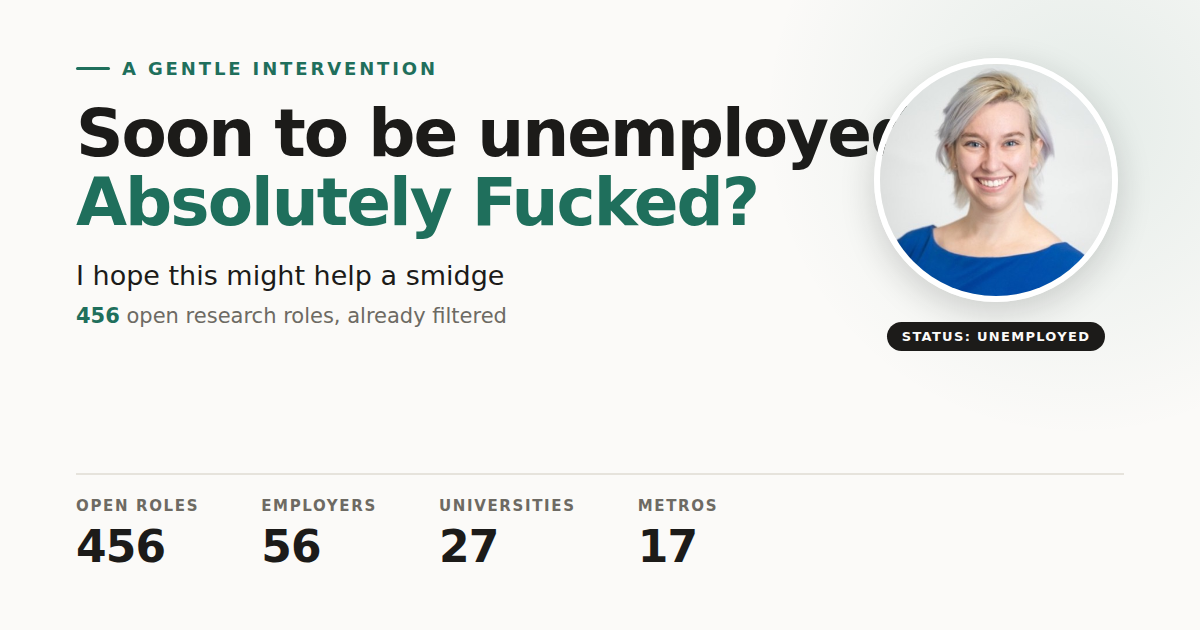
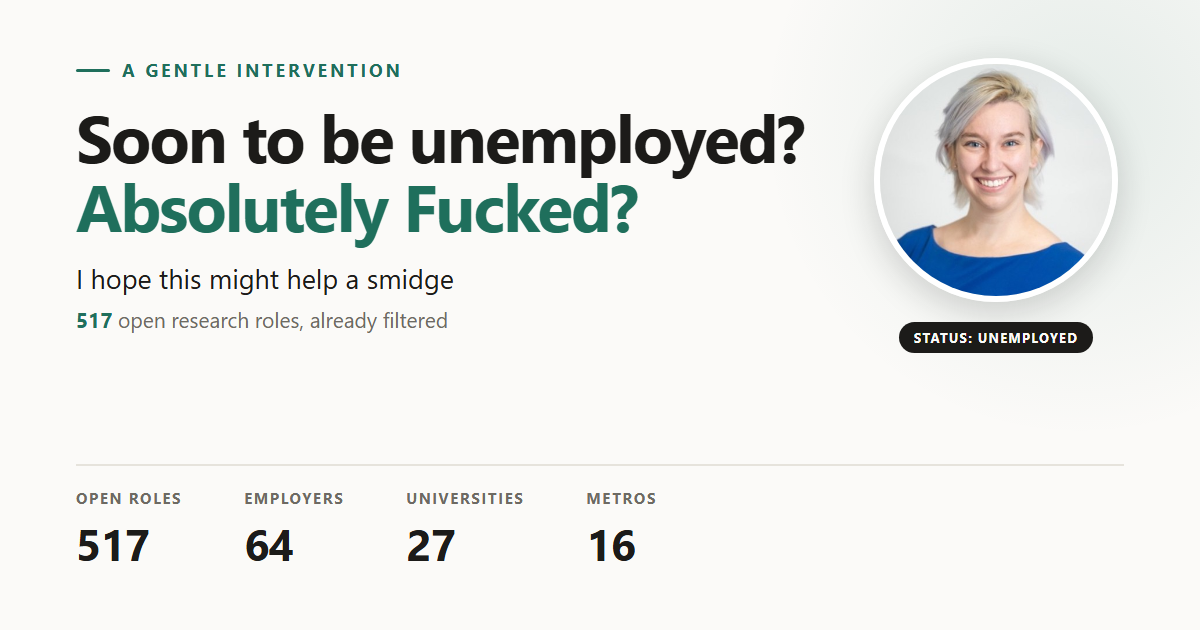
sweep fixes

diff --git a/index.html b/index.html
@@ -24,15 +24,15 @@
   <meta property="og:type" content="website">
   <meta property="og:site_name" content="Research Jobs Board">
   <meta property="og:title" content="Soon to be unemployed? Absolutely Fucked?">
-  <meta property="og:description" content="I hope this might help a smidge. 456 open research roles, already filtered, from 56 employer job feeds across 27 universities and 17 metros.">
+  <meta property="og:description" content="I hope this might help a smidge. 517 open research roles, already filtered, from 64 employer job feeds across 27 universities and 16 metros.">
   <meta property="og:url" content="https://bridget-jobs.vercel.app/">
   <meta property="og:image" content="https://bridget-jobs.vercel.app/og.png">
   <meta property="og:image:width" content="1200">
   <meta property="og:image:height" content="630">
-  <meta property="og:image:alt" content="Soon to be unemployed? Absolutely Fucked? 456 open roles, 56 employers, 27 universities, 17 metros.">
+  <meta property="og:image:alt" content="Soon to be unemployed? Absolutely Fucked? 517 open roles, 64 employers, 27 universities, 16 metros.">
   <meta name="twitter:card" content="summary_large_image">
   <meta name="twitter:title" content="Soon to be unemployed? Absolutely Fucked?">
-  <meta name="twitter:description" content="I hope this might help a smidge. 456 open research roles, already filtered.">
+  <meta name="twitter:description" content="I hope this might help a smidge. 517 open research roles, already filtered.">
   <meta name="twitter:image" content="https://bridget-jobs.vercel.app/og.png">
 
   <style>

diff --git a/tools/sweep.py b/tools/sweep.py
@@ -20,8 +20,11 @@ Stdlib only, no pip install.
 import argparse
 from datetime import datetime, timezone
 import csv
+import html
 import json
+import os
 import re
+import subprocess
 import sys
 import time
 import urllib.error
@@ -107,6 +110,14 @@ def detect(careers_url):
 
     if "ashbyhq.com" in host and parts:
         return {"ats": "ashby", "token": parts[0]}
+
+    if "apply.workable.com" in host and parts:
+        return {"ats": "workable", "token": parts[0]}
+
+    m = re.match(r"(https://[^/]+\.oraclecloud\.com)/hcmUI/CandidateExperience/[^/]+/sites/([^/?#]+)",
+                 careers_url)
+    if m:
+        return {"ats": "oraclecloud", "base": m.group(1), "site": m.group(2)}
 
     if careers_url.endswith(".atom") or "peopleadmin.com" in host:
         return {"ats": "peopleadmin", "host": host, "url": careers_url}
@@ -246,6 +257,40 @@ def _html(url, timeout=25):
         return r.read().decode("utf-8", "replace")
 
 
+# Same discovery list as tools/build-og.mjs, which pioneered the
+# no-dependency headless-Chrome pattern in this repo.
+CHROME_CANDIDATES = [
+    os.environ.get("CHROME_PATH"),
+    r"C:\Program Files\Google\Chrome\Application\chrome.exe",
+    r"C:\Program Files (x86)\Google\Chrome\Application\chrome.exe",
+    "/Applications/Google Chrome.app/Contents/MacOS/Google Chrome",
+    "/usr/bin/google-chrome",
+    "/usr/bin/chromium-browser",
+    "/usr/bin/chromium",
+]
+
+
+def render_html(url, budget_ms=9000):
+    """Fetch a page through headless Chrome and return the RENDERED DOM.
+    Two problems urllib cannot solve, one tool: a real browser TLS fingerprint
+    gets past the WAFs that 503/403 plain clients (Westat, NORC), and real JS
+    execution renders the boards that ship an empty shell (Mathematica).
+    GitHub Actions runners have Chrome preinstalled; set CHROME_PATH elsewhere.
+    Note a WAF may still block by IP reputation, so a page that renders locally
+    can fail from a datacenter runner - the carry-forward in main() covers that."""
+    chrome = next((p for p in CHROME_CANDIDATES if p and Path(p).exists()), None)
+    if not chrome:
+        raise RuntimeError("Chrome not found; set CHROME_PATH")
+    out = subprocess.run(
+        [chrome, "--headless", "--disable-gpu", "--no-sandbox",
+         f"--virtual-time-budget={budget_ms}", "--dump-dom", url],
+        capture_output=True, timeout=120)
+    dom = out.stdout.decode("utf-8", "replace") if out.stdout else ""
+    if out.returncode != 0 or len(dom) < 500:
+        raise RuntimeError(f"chrome render failed (rc={out.returncode}, {len(dom)} bytes)")
+    return dom
+
+
 def pull_eightfold(t):
     """Eightfold AI (e.g. Johns Hopkins). The documented /api/apply/v2/jobs route
     403s; the one the career site actually calls is /api/pcsx/search, and it needs
@@ -287,18 +332,19 @@ def pull_htmljobs(t):
     Harvard's bespoke site). Pull hrefs matching the target's job-link pattern.
     Brittle by nature: if a school redesigns, its rule here needs updating."""
     rx = re.compile(t["job_re"], re.I)
+    getter = render_html if t.get("render") else _html
     seen, out = set(), []
     for page in range(t.get("pages", 1)):
         u = t["url"].replace("{page}", str(page))
         try:
-            html = _html(u)
+            page_html = getter(u)   # NOT named "html" - that shadows the module
         except Exception:
             break
-        found = rx.findall(html)
+        found = rx.findall(page_html)
         if not found:
             break
         for href, title in found:
-            title = re.sub(r"\s+", " ", re.sub(r"<[^>]+>", "", title)).strip()
+            title = html.unescape(re.sub(r"\s+", " ", re.sub(r"<[^>]+>", "", title)).strip())
             if not title or title.lower() in ("read more", "learn more", "view job"):
                 continue
             full = href if href.startswith("http") else t["base"] + href
@@ -311,6 +357,178 @@ def pull_htmljobs(t):
     return out
 
 
+def pull_amazonjobs(t, _retry=True):
+    """Amazon's public search endpoint (amazon.jobs/en/search.json). The full
+    board is tens of thousands of postings, so query per search term the same
+    way the Workday puller does, and dedupe on job_path."""
+    seen, out = set(), []
+    for term in SEARCH_TERMS:
+        offset = 0
+        for _ in range(3):              # 100 per page; 300 per term is plenty
+            u = ("https://www.amazon.jobs/en/search.json?result_limit=100"
+                 f"&offset={offset}&base_query={urllib.parse.quote(term)}")
+            try:
+                d = fetch(u)
+            except Exception as e:
+                # transient failures here once zeroed out the whole employer,
+                # so retry once with a pause the way the Workday puller does
+                print(f"    ! amazon '{term}' offset {offset} failed ({e}), retrying",
+                      file=sys.stderr)
+                time.sleep(3)
+                try:
+                    d = fetch(u)
+                except Exception as e2:
+                    print(f"    ! gave up on '{term}': {e2}", file=sys.stderr)
+                    break
+            jobs = d.get("jobs") or []
+            if not jobs:
+                if offset == 0:   # a real zero-hit term says hits=0; anything else is throttling
+                    print(f"    ! amazon '{term}': empty page, hits={d.get('hits')!r} "
+                          f"error={d.get('error')!r}", file=sys.stderr)
+                break
+            for j in jobs:
+                path = j.get("job_path", "")
+                if not path or path in seen:
+                    continue
+                seen.add(path)
+                # US only: without this, a Bengaluru posting with no US state
+                # in its location string would fall back to the campus-city
+                # default and masquerade as a Seattle job. Amazon uses 3-letter
+                # ISO codes ("USA", "IND", "GBR").
+                if j.get("country_code") and j["country_code"] not in ("US", "USA"):
+                    continue
+                posted = ""
+                try:    # "May 28, 2026" -> ISO, so the board can parse it
+                    posted = datetime.strptime(
+                        j.get("posted_date", ""), "%B %d, %Y").strftime("%Y-%m-%d")
+                except ValueError:
+                    pass
+                out.append({
+                    "title": j.get("title", ""),
+                    "location": j.get("normalized_location") or j.get("location", ""),
+                    "url": f"https://www.amazon.jobs{path}",
+                    "posted": posted,
+                })
+            offset += len(jobs)
+            if offset >= int(d.get("hits") or 0):
+                break
+            time.sleep(1.2)
+        time.sleep(1.0)
+    # All ten terms coming back empty is throttling, never reality - one
+    # slower second pass usually gets through.
+    if not out and _retry:
+        print("    ! amazon returned nothing across all terms, retrying once", file=sys.stderr)
+        time.sleep(20)
+        return pull_amazonjobs(t, _retry=False)
+    return out
+
+
+def pull_workable(t):
+    """Workable's board API (apply.workable.com/api/v3/accounts/{token}/jobs),
+    paged via the nextPage token."""
+    url = f"https://apply.workable.com/api/v3/accounts/{t['token']}/jobs"
+    out, page_token = [], None
+    for _ in range(10):
+        payload = {"query": "", "location": [], "department": [],
+                   "worktype": [], "remote": []}
+        if page_token:
+            payload["token"] = page_token
+        d = fetch(url, data=payload)
+        for j in d.get("results", []):
+            loc = j.get("location") or {}
+            disp = ", ".join(x for x in (loc.get("city"),
+                                         loc.get("region") or loc.get("country")) if x)
+            if j.get("remote"):
+                disp = ("Remote - " + disp) if disp else "Remote"
+            out.append({
+                "title": j.get("title", ""),
+                "location": disp,
+                "url": f"https://apply.workable.com/{t['token']}/j/{j.get('shortcode', '')}/",
+                "posted": (j.get("published") or "")[:10],
+            })
+        page_token = d.get("nextPage")
+        if not page_token:
+            break
+        time.sleep(0.4)
+    return out
+
+
+def pull_radancy(t):
+    """Radancy-hosted boards (jobs.intuit.com). The search page renders in JS,
+    but its ajax endpoint returns JSON whose `results` field is the rendered
+    HTML, so regex the job tiles out of that. Needs "base" on the target."""
+    base = t["base"]
+    seen, out = set(), []
+    for page in range(1, t.get("pages", 12) + 1):
+        u = (f"{base}/search-jobs/results?ActiveFacetID=0&CurrentPage={page}"
+             "&RecordsPerPage=50&SortCriteria=0&SortDirection=1"
+             "&SearchResultsModuleName=Search+Results"
+             "&SearchFiltersModuleName=Search+Filters")
+        try:
+            d = fetch(u, headers={"X-Requested-With": "XMLHttpRequest"})
+        except Exception:
+            break
+        tiles = d.get("results", "")
+        rows = re.findall(r'<a[^>]+href="(/job/[^"]+)"[^>]*>([\s\S]{0,500}?)</a>', tiles)
+        new = 0
+        for href, inner in rows:
+            if href in seen:
+                continue
+            seen.add(href)
+            new += 1
+            m = re.search(r"<h2[^>]*>([^<]+)</h2>", inner)
+            title = (m.group(1) if m else re.sub(r"<[^>]+>", " ", inner)).strip()
+            lm = re.search(r'location[^>]*>\s*([^<]{2,80})<', inner)
+            out.append({
+                "title": html.unescape(title),
+                "location": lm.group(1).strip() if lm else t.get("location", ""),
+                "url": base + href,
+                "posted": "",
+            })
+        if not new:
+            break
+        time.sleep(0.5)
+    return out
+
+
+def pull_oraclecloud(t):
+    """Oracle Recruiting Cloud (Abt Global). The public REST API keys on a CX_
+    site number that is not in the portal URL, so scrape it off the portal page
+    first. PostedDate arrives ISO. US-only, for the same reason as Amazon: the
+    location strings for international postings carry no US state and would
+    otherwise fall back to the campus city."""
+    base, site = t["base"], t["site"]
+    m = re.search(r"CX_\d+",
+                  _html(f"{base}/hcmUI/CandidateExperience/en/sites/{site}/requisitions"))
+    if not m:
+        return []
+    out, offset = [], 0
+    while offset < 500:
+        u = (f"{base}/hcmRestApi/resources/latest/recruitingCEJobRequisitions"
+             f"?onlyData=true&expand=requisitionList.secondaryLocations"
+             f"&finder=findReqs;siteNumber={m.group(0)},limit=100,offset={offset},"
+             f"sortBy=POSTING_DATES_DESC")
+        d = fetch(u)
+        items = d.get("items") or []
+        reqs = items[0].get("requisitionList", []) if items else []
+        if not reqs:
+            break
+        for q in reqs:
+            if (q.get("PrimaryLocationCountry") or "US") != "US":
+                continue
+            out.append({
+                "title": q.get("Title", ""),
+                "location": q.get("PrimaryLocation", ""),
+                "url": f"{base}/hcmUI/CandidateExperience/en/sites/{site}/job/{q.get('Id')}",
+                "posted": q.get("PostedDate") or "",
+            })
+        offset += len(reqs)
+        if offset >= (items[0].get("TotalJobsCount") or 0):
+            break
+        time.sleep(0.4)
+    return out
+
+
 PULLERS = {
     "workday": pull_workday,
     "greenhouse": pull_greenhouse,
@@ -319,6 +537,10 @@ PULLERS = {
     "peopleadmin": pull_peopleadmin,
     "eightfold": pull_eightfold,
     "htmljobs": pull_htmljobs,
+    "amazonjobs": pull_amazonjobs,
+    "workable": pull_workable,
+    "radancy": pull_radancy,
+    "oraclecloud": pull_oraclecloud,
 }
 
 
@@ -492,7 +714,7 @@ def main():
         # is not self-describing (eightfold, hand-written HTML rules).
         if t.get("ats"):
             info = {"ats": t["ats"], "url": careers, **{k: v for k, v in t.items()
-                                                        if k in ("job_re", "base", "pages")}}
+                                                        if k in ("job_re", "base", "pages", "render")}}
         else:
             info = detect(careers)
         if not info:

diff --git a/README.md b/README.md
@@ -14,7 +14,7 @@ jobs.json       generated data the page fetches at load
 vercel.json     noindex headers
 tools/
   sweep.py      pulls every employer feed -> writes ../jobs.json
-  targets.json  the employer list (76 employers, 56 with machine-readable feeds)
+  targets.json  the employer list (75 employers, 64 with machine-readable feeds)
   discover_ats.py  helper for working out which ATS a new employer uses
 docs/
   where-to-look.md   the ranked source guide, same content as the second tab
@@ -98,10 +98,12 @@ Add an entry to `tools/targets.json`:
   "location": "City, ST" }
 ```
 
-`careers_url` is auto-detected for Workday, Greenhouse, Lever, Ashby and
-PeopleAdmin (`/postings/search.atom`). For anything else, set `"ats"` explicitly
-to `eightfold` or `htmljobs` — see the Johns Hopkins, Duke and Harvard entries for
-worked examples of each.
+`careers_url` is auto-detected for Workday, Greenhouse, Lever, Ashby, Workable
+(`apply.workable.com/{account}`), Oracle Recruiting Cloud (a
+`.../CandidateExperience/en/sites/{site}/requisitions` URL) and PeopleAdmin
+(`/postings/search.atom`). For anything else, set `"ats"` explicitly to
+`eightfold`, `htmljobs`, `amazonjobs` or `radancy` — see the Johns Hopkins,
+Duke, Harvard, Amazon and Intuit entries for worked examples.
 
 `location` is the campus city, used as a fallback when a feed returns a building
 name instead of geography (Brown reports "164 Angell Street", Georgetown reports
@@ -112,9 +114,13 @@ extracts ATS links.
 
 ## Known limits
 
-- **20 of 76 employers have no machine-readable feed** and are listed in the
+- **11 of 75 employers have no machine-readable feed** and are listed in the
   "Check these by hand" section on the page. Several are strong-fit employers
-  (Westat, Mathematica, NORC, Abt), so that section is not optional.
+  (Westat, Mathematica, NORC), so that section is not optional. Westat and NORC
+  are WAF-blocked (503/403 for anything that is not a browser); Mathematica,
+  MDRC, Emmes, Meta, Google and Microsoft are JS-only or custom builds with no
+  reachable feed; ideas42, Irrational Labs and TRI have no ATS board at all.
+  The per-entry `portal` notes in `targets.json` record what was tried.
 - Big research universities post the same requisition many times over, once per
   department. Identical employer+title rows are collapsed into one row carrying an
   "N openings" badge.
